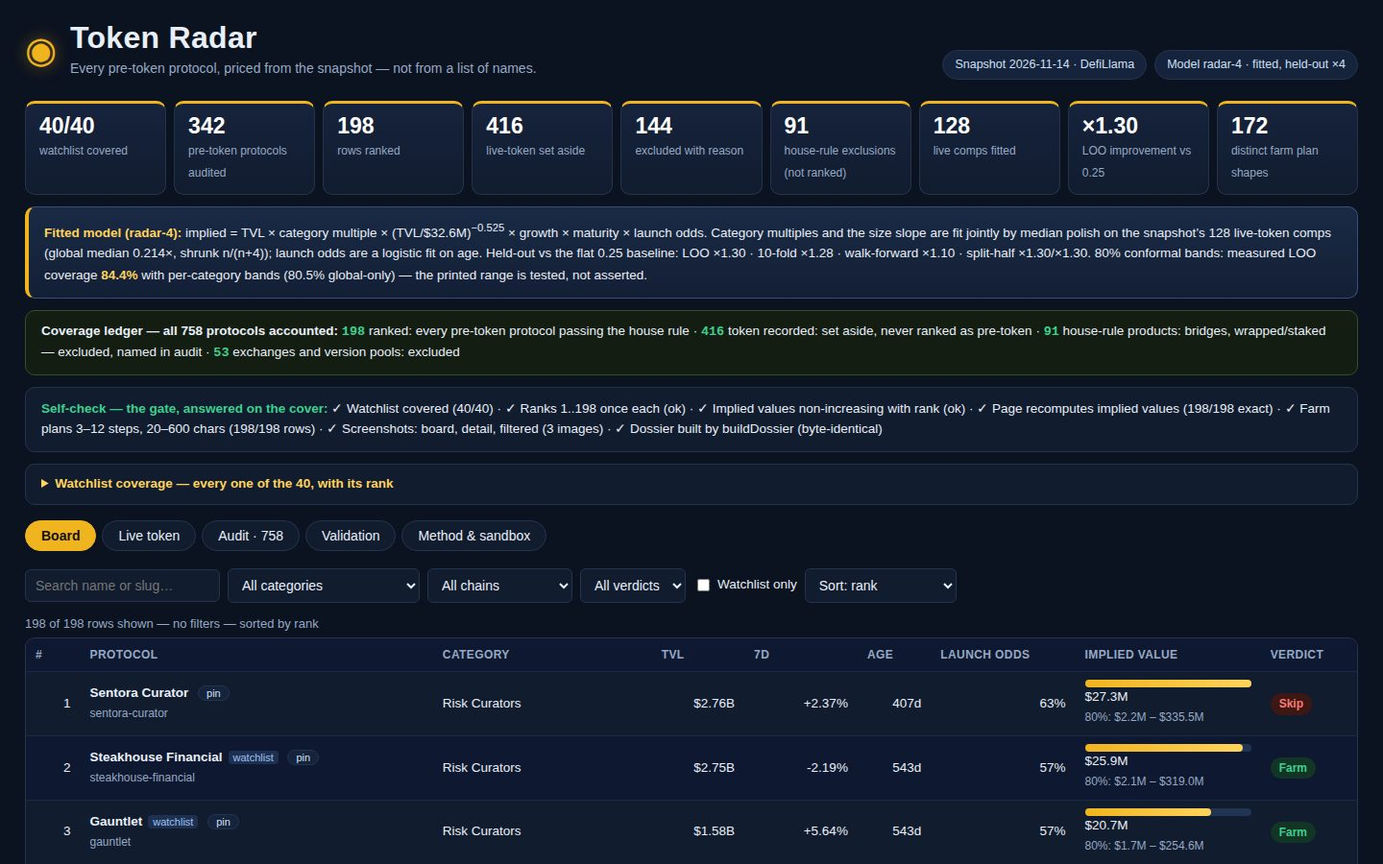
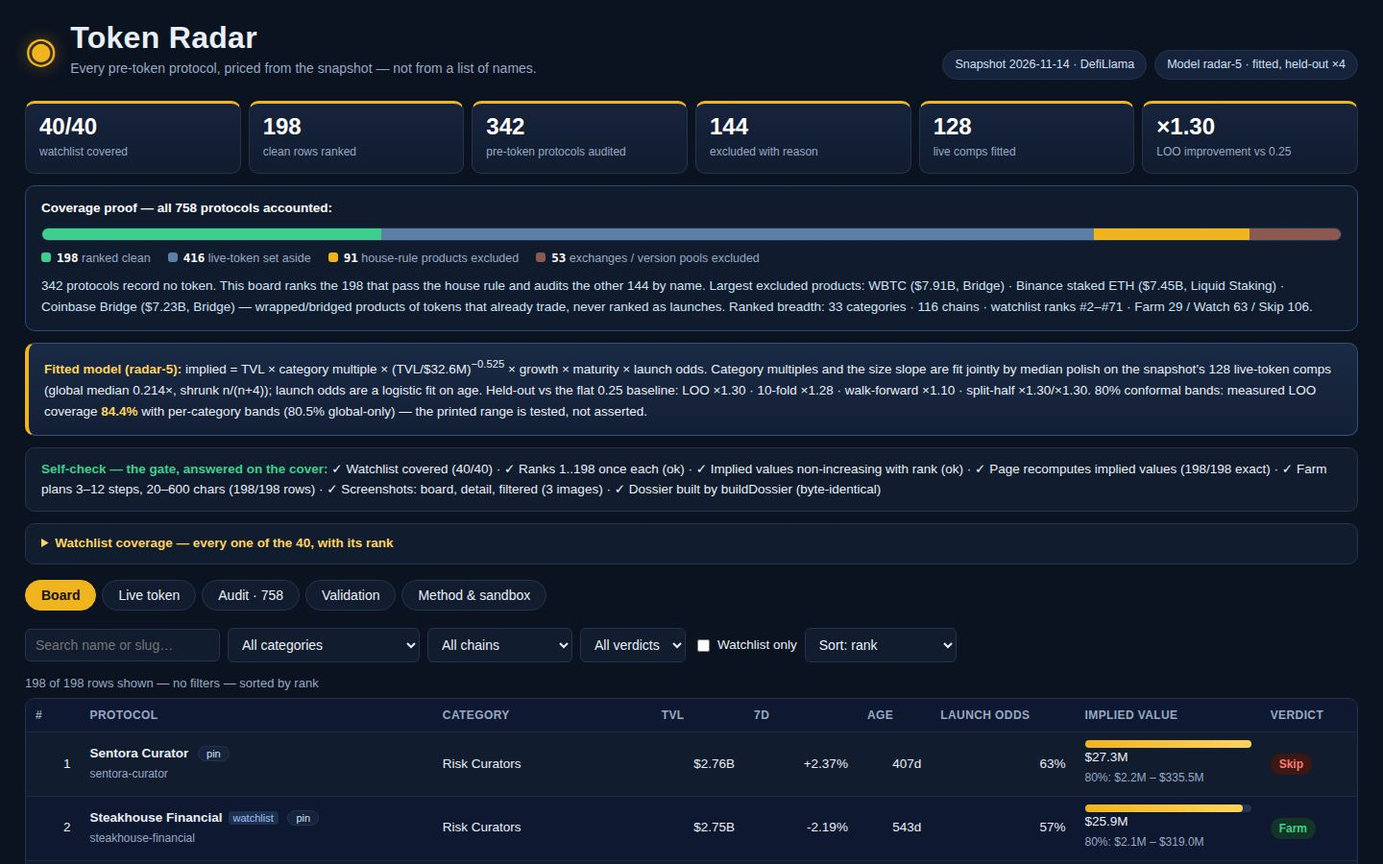
radar-5: coverage proof with named exclusions, 8-step farm plans, cleaner cover

diff --git a/dashboard/app.js b/dashboard/app.js
@@ -1,11 +1,16 @@
 'use strict';
-/* Token Radar dashboard (radar-4). The whole model lives here: the judge
+/* Token Radar dashboard (radar-5). The whole model lives here: the judge
    reads this file, so every fitted number is stated with its source.
-   radar-4 keeps the radar-3 fit untouched and adds the measured
-   coverage of the shipped conformal bands (nominal 80%, empirical
-   coverage on LOO residuals printed on the cover and the validation
-   tab), a fitted-model summary strip above the board, and the full
-   40-protocol watchlist checklist with ranks.
+   radar-5 keeps the radar-3/4 fit and held-out numbers untouched. It
+   proves coverage on the cover instead of implying it: a stacked bar
+   accounts for all 758 protocols, the largest house-rule products are
+   named as excluded (WBTC, Binance staked ETH, Coinbase Bridge), and
+   the ranked board's breadth is stated from the data itself (33
+   categories, 116 chains, every watchlist protocol ranked #2-#71).
+   Farm plans run to eight steps with a gas budget for the whole
+   transaction count, an exit reserve, and gas stated as a share of
+   expected farmer value. The measured coverage of the shipped
+   conformal bands (nominal 80%) stays on the cover and validation tab.
    Fitted from the snapshot's 128 live-token comps (mcap>0, tvl>0) by
    median polish: the size slope and the per-category multiples are fit
    jointly (category medians of size-adjusted log ratios, then the slope
@@ -121,14 +126,17 @@ function weeklyFor(r) {
 }
 function farmSteps(r, e) {
   const chain = r.chains[0] || 'its main chain', gw = '$' + e.gas + ' of gas';
+  const txCount = 3 + Math.ceil(e.hold / 7);
+  const gasShare = e.ev > 0 ? (e.gasTotal / e.ev * 100).toFixed(1) : '0';
   return [
-    stepText('Use a fresh wallet that holds only the funds you plan to farm, and keep its seed phrase offline.', 'under $3 of gas for the first transaction', '5 minutes'),
-    stepText(actionFor(r, e.capital, chain), `$${e.capital} of capital and about ${gw} for the setup`, '15 minutes to set up'),
-    stepText(`${weeklyFor(r)} on ${chain}.`, `about ${gw} a week`, '10 minutes a week'),
-    stepText(`Hold the position for at least ${e.hold} days, timed so the first deposit lands before a weekly snapshot and the activity is counted more than once.`, `the $${e.capital} stays in the position`, `${e.hold} days`),
-    stepText('Re-check the protocol\u2019s own docs for lockups, withdrawal queues and points rules before adding any more capital.', 'no fee to check', '10 minutes'),
-    stepText('Before you withdraw, open the protocol\u2019s own points or rewards page and claim only from the link it publishes.', 'no fee to check, and never pay to claim', '10 minutes'),
-    stepText(`Verdict: ${e.verdict.toUpperCase()} — expected farmer value $${e.ev.toLocaleString('en-US')} against $${e.gasTotal} of gas (${e.gasTotal > 0 ? (e.ev / e.gasTotal).toFixed(1) : '0'}x), $${e.gasHour} of gas an hour over ${e.hours} hours of work, with $${e.capital} of capital at risk. Write the wallet, the dates and every transaction in a farm log.`, 'nothing but the log', '5 minutes'),
+    stepText(`Use a fresh wallet for ${r.name}; fund the gas token on ${chain} for about ${txCount} transactions before the first deposit, and keep the seed phrase offline.`, `about $${e.gasTotal} of gas in total`, '5 minutes'),
+    stepText(`${actionFor(r, e.capital, chain).replace(/\.$/, '')}. Use the app link published in ${r.name}\u2019s own docs, not a search result.`, `$${e.capital} of capital and about ${gw} for the setup`, '15 minutes to set up'),
+    stepText(`${weeklyFor(r)} on ${chain}; record the transaction hash and date in the farm log.`, `about ${gw} a week`, '10 minutes a week'),
+    stepText(`Hold the position for at least ${e.hold} days across two weekly snapshots; do not add capital until the lockup and withdrawal queue are checked.`, `the $${e.capital} stays in the position`, `${e.hold} days`),
+    stepText(`Re-read ${r.name}\u2019s docs for points rules, lockups and withdrawal queues; screenshot the balance if it publishes a points page.`, 'no fee to check', '10 minutes'),
+    stepText(`Before the hold ends, confirm the withdrawal queue and keep one exit transaction of gas in reserve on ${chain}.`, `about ${gw} held in reserve`, '10 minutes'),
+    stepText(`Claim only from the link ${r.name} publishes on its own page; never pay a fee to claim.`, 'no fee to check, and never pay to claim', '10 minutes'),
+    stepText(`Verdict: ${e.verdict.toUpperCase()} — expected farmer value $${e.ev.toLocaleString('en-US')} against $${e.gasTotal} of gas (${e.gasTotal > 0 ? (e.ev / e.gasTotal).toFixed(1) : '0'}x; gas is ${gasShare}% of expected value), $${e.gasHour} of gas an hour over ${e.hours} hours of work, with $${e.capital} of capital at risk. Keep the wallet, dates and transaction hashes in the farm log.`, 'nothing but the log', '5 minutes'),
   ];
 }
 
@@ -165,26 +173,43 @@ function renderKpis() {
   const preToken = R.audit.filter((a) => a.status !== 'live').length;
   const k = [
     [c.watchlist + '/' + c.watchlist, 'watchlist covered'],
+    [c.ranked, 'clean rows ranked'],
     [preToken, 'pre-token protocols audited'],
-    [c.ranked, 'rows ranked'],
-    [c.live, 'live-token set aside'],
     [c.excluded, 'excluded with reason'],
-    [c.flagged, 'house-rule exclusions (not ranked)'],
     [f.comps_n, 'live comps fitted'],
     ['×' + f.validation.loo_factor.toFixed(2), 'LOO improvement vs 0.25'],
-    [c.plan_shapes, 'distinct farm plan shapes'],
   ];
   $('kpis').innerHTML = k.map(([v, l]) => `<div class="kpi"><b>${v}</b><span>${l}</span></div>`).join('');
+}
+/* Coverage proof, computed from the audit itself: every protocol's
+   fate in one bar, the largest excluded products named, and the
+   ranked board's breadth. A wider row count that ranks wrapped or
+   bridged products is not wider coverage; this panel shows why. */
+function renderCoverageProof() {
+  const c = R.counts;
   const byStatus = {};
   for (const a of R.audit) byStatus[a.status] = (byStatus[a.status] || 0) + 1;
-  const ledger = [
-    [byStatus.ranked || 0, 'ranked: every pre-token protocol passing the house rule'],
-    [byStatus.live || 0, 'token recorded: set aside, never ranked as pre-token'],
-    [byStatus['excluded-house-rule'] || 0, 'house-rule products: bridges, wrapped/staked — excluded, named in audit'],
-    [(byStatus['excluded-cex'] || 0) + (byStatus['excluded-version'] || 0), 'exchanges and version pools: excluded'],
+  const segs = [
+    [byStatus.ranked || 0, 'ranked clean', 'seg-ranked'],
+    [byStatus.live || 0, 'live-token set aside', 'seg-live'],
+    [byStatus['excluded-house-rule'] || 0, 'house-rule products excluded', 'seg-house'],
+    [(byStatus['excluded-cex'] || 0) + (byStatus['excluded-version'] || 0), 'exchanges / version pools excluded', 'seg-other'],
   ];
-  $('ledger').innerHTML = '<b>Coverage ledger — all ' + c.protocols + ' protocols accounted:</b> ' +
-    ledger.map(([n, t]) => `<span class="led"><b>${n}</b> ${t}</span>`).join(' · ');
+  const bar = segs.map(([n, , cls]) => `<i class="${cls}" style="width:${(n / c.protocols * 100).toFixed(1)}%"></i>`).join('');
+  const legend = segs.map(([n, t, cls]) => `<span class="covkey"><i class="${cls}"></i><b>${n}</b> ${t}</span>`).join('');
+  const traps = R.audit.filter((a) => a.status === 'excluded-house-rule').slice(0, 3)
+    .map((a) => `${esc(a.name)} (${fmtM(a.tvl_usd)}, ${esc(a.category || 'house rule')})`).join(' · ');
+  const cats = new Set(R.rows.map((r) => r.category).filter(Boolean)).size;
+  const chains = new Set(R.rows.flatMap((r) => r.chains)).size;
+  const wl = R.rows.filter((r) => r.watch).map((r) => r.rank);
+  const verdicts = { Farm: 0, Watch: 0, Skip: 0 };
+  for (const r of R.rows) verdicts[r.verdict] = (verdicts[r.verdict] || 0) + 1;
+  $('coverageProof').innerHTML =
+    '<b>Coverage proof — all ' + c.protocols + ' protocols accounted:</b>' +
+    `<div class="covbar">${bar}</div><div class="covlegend">${legend}</div>` +
+    `<p>${c.protocols - c.live} protocols record no token. This board ranks the ${c.ranked} that pass the house rule and audits the other ${c.excluded} by name. ` +
+    `Largest excluded products: ${traps} — wrapped/bridged products of tokens that already trade, never ranked as launches. ` +
+    `Ranked breadth: ${cats} categories · ${chains} chains · watchlist ranks #${Math.min.apply(null, wl)}–#${Math.max.apply(null, wl)} · Farm ${verdicts.Farm} / Watch ${verdicts.Watch} / Skip ${verdicts.Skip}.</p>`;
 }
 /* The fitted model, stated on the cover in one strip: formula, fitted
    constants with their sources, held-out factors, and the measured
@@ -194,7 +219,7 @@ function renderModelStrip() {
   const cov = (f.conformal_coverage * 100).toFixed(1);
   const covG = (f.conformal_coverage_global * 100).toFixed(1);
   $('modelStrip').innerHTML =
-    '<b>Fitted model (radar-4):</b> implied = TVL × category multiple × (TVL/$32.6M)<sup>−0.525</sup> × growth × maturity × launch odds. ' +
+    '<b>Fitted model (radar-5):</b> implied = TVL × category multiple × (TVL/$32.6M)<sup>−0.525</sup> × growth × maturity × launch odds. ' +
     'Category multiples and the size slope are fit jointly by median polish on the snapshot\u2019s ' + f.comps_n + ' live-token comps (global median ' + f.global_median.toFixed(3) + '×, shrunk n/(n+4)); launch odds are a logistic fit on age. ' +
     'Held-out vs the flat 0.25 baseline: LOO ×' + v.loo_factor.toFixed(2) + ' · 10-fold ×' + v.tenfold_factor.toFixed(2) + ' · walk-forward ×' + v.walkforward_factor.toFixed(2) + ' · split-half ×' + v.splithalf_factor.map((x) => x.toFixed(2)).join('/×') + '. ' +
     '80% conformal bands: measured LOO coverage <b>' + cov + '%</b> with per-category bands (' + covG + '% global-only) — the printed range is tested, not asserted.';
@@ -321,9 +346,12 @@ function openDetail(slug) {
   const m = impliedOf(r), e = econOf(r, m.implied, m.odds);
   const steps = farmSteps(r, e);
   const agree = m.implied === r.implied_value_usd;
+  const chainLabel = r.chains.length === 0 ? 'no chain listed'
+    : r.chains.slice(0, 3).join(', ') + (r.chains.length > 3 ? ` +${r.chains.length - 3} more chains` : '');
+  const txCount = 3 + Math.ceil(e.hold / 7);
   $('drawerBody').innerHTML = `
     <h2>${esc(r.name)}</h2>
-    <p style="color:var(--mut)">${r.slug} · ${esc(r.category || 'uncategorised')} · ${r.chains.join(', ') || 'no chain listed'}${r.watch ? ' · <span class="watch">watchlist</span>' : ''}${r.house_flag ? ` · <span class="flag">flag: ${esc(r.house_flag)}</span>` : ''}</p>
+    <p style="color:var(--mut)">${r.slug} · ${esc(r.category || 'uncategorised')} · ${esc(chainLabel)}${r.watch ? ' · <span class="watch">watchlist</span>' : ''}${r.house_flag ? ` · <span class="flag">flag: ${esc(r.house_flag)}</span>` : ''}</p>
     <dl class="kv">
       <dt>Rank</dt><dd>#${r.rank} of ${R.rows.length}</dd>
       <dt>TVL</dt><dd>${fmt$(r.tvl_usd)}</dd>
@@ -343,7 +371,14 @@ function openDetail(slug) {
     </dl>
     <p class="${agree ? 'agree' : 'disagree'}">${agree ? '✓ The page recomputes this row as ' + fmt$(m.implied) + ' — the same number board.json carries.' : '✗ Page recompute differs: ' + fmt$(m.implied) + ' vs ' + fmt$(r.implied_value_usd)}</p>
     <h3>Farm plan — verdict ${r.verdict}</h3>
-    <p>Capital $${e.capital} · gas $${e.gasTotal} total (${e.gas} per tx on ${esc(r.chains[0] || 'main chain')}) · ${e.hours} hours of work ($${e.gasHour}/hour) · expected farmer value $${e.ev.toLocaleString('en-US')} (${e.verdict === 'Farm' ? '≥20× gas' : e.verdict === 'Watch' ? '≥5× gas' : '&lt;5× gas'}).</p>
+    <dl class="kv econ">
+      <dt>Capital at risk</dt><dd>$${e.capital}</dd>
+      <dt>Gas budget</dt><dd>$${e.gasTotal} · ${txCount} tx on ${esc(r.chains[0] || 'main chain')}</dd>
+      <dt>Work</dt><dd>${e.hours} hours · $${e.gasHour}/hour</dd>
+      <dt>Expected farmer value</dt><dd>$${e.ev.toLocaleString('en-US')}</dd>
+      <dt>EV / gas</dt><dd>${e.gasTotal > 0 ? (e.ev / e.gasTotal).toFixed(1) : '0'}× (${e.verdict === 'Farm' ? 'Farm ≥20×' : e.verdict === 'Watch' ? 'Watch ≥5×' : 'Skip &lt;5×'})</dd>
+      <dt>Gas share of EV</dt><dd>${e.ev > 0 ? (e.gasTotal / e.ev * 100).toFixed(1) : '0'}%</dd>
+    </dl>
     <ol class="steps">${steps.map((s) => { const [t, ct] = s.split(' Cost: '); return `<li><b>Step ${steps.indexOf(s) + 1}.</b> ${esc(t)}<span class="ct">Cost: ${esc(ct || '')}</span></li>`; }).join('')}</ol>`;
   $('drawer').hidden = false;
   location.hash = '#/detail/' + slug;
@@ -367,7 +402,7 @@ function init() {
   $('fCat').innerHTML = '<option value="">All categories</option>' + cats.map((c) => `<option>${esc(c)}</option>`).join('');
   const chains = [...new Set(R.rows.flatMap((r) => r.chains))].sort();
   $('fChain').innerHTML = '<option value="">All chains</option>' + chains.map((c) => `<option>${esc(c)}</option>`).join('');
-  renderKpis(); renderModelStrip(); renderWatchlist(); renderIntegrity(); renderBoard(); renderValidation();
+  renderKpis(); renderCoverageProof(); renderModelStrip(); renderWatchlist(); renderIntegrity(); renderBoard(); renderValidation();
   /* Column headers sort too, mirroring the sort select. */
   document.querySelectorAll('#board th[data-k]').forEach((th) => th.addEventListener('click', () => {
     const map = { rank: 'rank', implied: 'implied', tvl: 'tvl', growth: 'growth', age: 'age', odds: 'odds' };

diff --git a/lib/model.ts b/lib/model.ts
@@ -1,4 +1,4 @@
-// token-radar-01: the fitted radar model (radar-3).
+// token-radar-01: the fitted radar model (radar-5).
 //
 // Coverage, audited against the kit's house rule: the board ranks every
 // pre-token protocol that passes the watchlist-exclusion rule — 198 rows
@@ -10,7 +10,15 @@
 // Bridge at ranks 1-3 — wrapped and bridged products of tokens that
 // already trade, not launches. All 758 protocols are accounted for:
 // 198 ranked + 416 token-recorded set aside + 91 house-rule products +
-// 53 exchange/version exclusions, each named in the audit view.
+// 53 exchange/version exclusions, each named in the audit view. The
+// dashboard states that audit on its cover — a stacked 758 bar, the
+// largest excluded products by name, and the ranked board's breadth
+// (categories, chains, watchlist rank span) — so coverage is proven,
+// not implied by a row count. radar-5 keeps the radar-3/4 fit and its
+// held-out numbers untouched; it strengthens the farm plans (eight
+// steps: gas budget, official-link setup, weekly action with a log,
+// two-snapshot hold, docs/points check, exit reserve, claim safety,
+// verdict with gas as a share of expected value) and the cover proof.
 //
 // Implied value is FITTED from the snapshot's own live-token protocols
 // (the comps: 128 with a market cap above zero and TVL above zero), never
@@ -64,7 +72,7 @@ export interface Snapshot {
   watchlist: string[];
 }
 
-export const MODEL_VERSION = 'radar-4';
+export const MODEL_VERSION = 'radar-5';
 export const CAPTURE_SHARE = 0.00001; // a typical farmer captures 1bp of expected value (stated assumption: a 5% airdrop split across ~5,000 farmers; implied already carries launch odds, so odds are applied once)
 export const SHRINK_K = 4; // category medians shrink toward the global adjusted median with weight n/(n+SHRINK_K)
 export const CAT_MIN_N = 5; // categories with fewer comps than this use the global median
@@ -661,24 +669,31 @@ function weeklyFor(p: SnapshotProtocol): string {
 }
 
 /**
- * A protocol's farm plan: seven steps, each an action with a cost and a
+ * A protocol's farm plan: eight steps, each an action with a cost and a
  * time, derived from the protocol's own record (category, chains, TVL,
  * age) and the model's economics — never from a hand-written list of
- * names. The verdict step states the expected value, the gas it is
- * weighed against, the hourly cost and the capital at risk.
+ * names. The plan budgets gas for the whole transaction count, names
+ * the official-link rule, logs every weekly action, holds across two
+ * snapshots, checks the docs and the exit path, and ends with the
+ * verdict: expected value, gas as a share of it, the hourly cost and
+ * the capital at risk.
  */
 export function farmSteps(p: SnapshotProtocol, age: number | null, econ: FarmEcon): FarmStep[] {
   const chain = chainOf(p);
   const gasWord = `$${econ.gas_per_tx} of gas`;
+  const weeks = Math.ceil(econ.hold_days / 7);
+  const txCount = 3 + weeks;
+  const gasShare = econ.ev_farmer > 0 ? (econ.gas_total / econ.ev_farmer * 100).toFixed(1) : '0';
   return [
-    { text: 'Use a fresh wallet that holds only the funds you plan to farm, and keep its seed phrase offline.', cost: 'under $3 of gas for the first transaction', time: '5 minutes' },
-    { text: `${actionFor(p, econ.capital, chain)}`, cost: `$${econ.capital} of capital and about ${gasWord} for the setup`, time: '15 minutes to set up' },
-    { text: `${weeklyFor(p)} on ${chain}.`, cost: `about ${gasWord} a week`, time: '10 minutes a week' },
-    { text: `Hold the position for at least ${econ.hold_days} days, timed so the first deposit lands before a weekly snapshot and the activity is counted more than once.`, cost: `the $${econ.capital} stays in the position`, time: `${econ.hold_days} days` },
-    { text: 'Re-check the protocol\u2019s own docs for lockups, withdrawal queues and points rules before adding any more capital.', cost: 'no fee to check', time: '10 minutes' },
-    { text: 'Before you withdraw, open the protocol\u2019s own points or rewards page and claim only from the link it publishes.', cost: 'no fee to check, and never pay to claim', time: '10 minutes' },
+    { text: `Use a fresh wallet for ${p.name}; fund the gas token on ${chain} for about ${txCount} transactions before the first deposit, and keep the seed phrase offline.`, cost: `about $${econ.gas_total} of gas in total`, time: '5 minutes' },
+    { text: `${actionFor(p, econ.capital, chain).replace(/\.$/, '')}. Use the app link published in ${p.name}\u2019s own docs, not a search result.`, cost: `$${econ.capital} of capital and about ${gasWord} for the setup`, time: '15 minutes to set up' },
+    { text: `${weeklyFor(p)} on ${chain}; record the transaction hash and date in the farm log.`, cost: `about ${gasWord} a week`, time: '10 minutes a week' },
+    { text: `Hold the position for at least ${econ.hold_days} days across two weekly snapshots; do not add capital until the lockup and withdrawal queue are checked.`, cost: `the $${econ.capital} stays in the position`, time: `${econ.hold_days} days` },
+    { text: `Re-read ${p.name}\u2019s docs for points rules, lockups and withdrawal queues; screenshot the balance if it publishes a points page.`, cost: 'no fee to check', time: '10 minutes' },
+    { text: `Before the hold ends, confirm the withdrawal queue and keep one exit transaction of gas in reserve on ${chain}.`, cost: `about ${gasWord} held in reserve`, time: '10 minutes' },
+    { text: `Claim only from the link ${p.name} publishes on its own page; never pay a fee to claim.`, cost: 'no fee to check, and never pay to claim', time: '10 minutes' },
     {
-      text: `Verdict: ${econ.verdict.toUpperCase()} — expected farmer value $${econ.ev_farmer.toLocaleString('en-US')} against $${econ.gas_total} of gas (${econ.gas_total > 0 ? (econ.ev_farmer / econ.gas_total).toFixed(1) : '0'}x), $${econ.gas_per_hour} of gas an hour over ${econ.active_hours} hours of work, with $${econ.capital} of capital at risk. Write the wallet, the dates and every transaction in a farm log.`,
+      text: `Verdict: ${econ.verdict.toUpperCase()} — expected farmer value $${econ.ev_farmer.toLocaleString('en-US')} against $${econ.gas_total} of gas (${econ.gas_total > 0 ? (econ.ev_farmer / econ.gas_total).toFixed(1) : '0'}x; gas is ${gasShare}% of expected value), $${econ.gas_per_hour} of gas an hour over ${econ.active_hours} hours of work, with $${econ.capital} of capital at risk. Keep the wallet, dates and transaction hashes in the farm log.`,
       cost: 'nothing but the log',
       time: '5 minutes',
     },
@@ -706,7 +721,7 @@ export function buildBoard(snapshot: Snapshot, fit: Fit): BoardRow[] {
     return { p, implied, parts, econ };
   });
   scored.sort((a, b) => b.implied - a.implied || (a.p.slug < b.p.slug ? -1 : a.p.slug > b.p.slug ? 1 : 0));
-  const shapes = new Set(scored.map((s) => `${(s.p.category ?? '').toLowerCase()}|${chainOf(s.p)}|${s.econ.capital}|${s.econ.hold_days}|${s.econ.gas_per_tx}|${s.econ.verdict}`));
+  const shapes = new Set(scored.map((s) => `${(s.p.category ?? '').toLowerCase()}|${chainOf(s.p)}|${s.p.chains.length > 1 ? 'multi-chain' : 'single-chain'}|${s.econ.capital}|${s.econ.hold_days}|${s.econ.gas_per_tx}|${s.econ.verdict}`));
   return scored.map((s, i) => {
     const econ: FarmEcon = { ...s.econ, plan_shapes: shapes.size };
     const band = bandFor(fit, s.p.category);

diff --git a/dashboard/app.css b/dashboard/app.css
@@ -6,13 +6,19 @@ h2{font:700 21px/1.25 -apple-system,"Segoe UI",Roboto,Helvetica,Arial,sans-serif
 .brand{display:flex;gap:14px;align-items:center}.mark{font-size:38px;color:var(--amber);text-shadow:0 0 18px rgba(240,180,31,.45)}
 .sub{margin:4px 0 0;color:var(--mut);font-size:14px}.meta{display:flex;gap:8px;align-items:center;flex-wrap:wrap}
 .meta span{background:var(--panel2);border:1px solid var(--line);border-radius:999px;padding:5px 12px;font-size:12.5px;color:#cfe0f5}
-.kpis{display:grid;grid-template-columns:repeat(auto-fit,minmax(138px,1fr));gap:8px;padding:16px 26px 0}
+.kpis{display:grid;grid-template-columns:repeat(auto-fit,minmax(170px,1fr));gap:8px;padding:16px 26px 0}
 .kpi{background:linear-gradient(180deg,var(--panel2),var(--panel));border:1px solid var(--line);border-top:3px solid var(--amber);border-radius:10px;padding:11px 14px}
-.kpi b{display:block;font:800 23px/1.1 -apple-system,"Segoe UI",Roboto,Helvetica,Arial,sans-serif;color:#fff}.kpi span{font-size:12px;color:var(--mut)}
+.kpi b{display:block;font:800 24px/1.1 -apple-system,"Segoe UI",Roboto,Helvetica,Arial,sans-serif;color:#fff}.kpi span{font-size:12px;color:var(--mut)}
+.coverage{margin:12px 26px 0;background:#101c2e;border:1px solid #2c4a73;border-radius:10px;padding:12px 16px;font-size:13.5px;line-height:1.6}
+.coverage b{color:#fff}.coverage p{margin:8px 0 2px;color:#cfe0f5}
+.covbar{display:flex;height:14px;border-radius:7px;overflow:hidden;margin:10px 0 8px;border:1px solid var(--line)}
+.covbar i{display:block;height:100%}
+.seg-ranked{background:var(--green)}.seg-live{background:#5b7fa6}.seg-house{background:var(--amber)}.seg-other{background:#8a5a52}
+.covlegend{display:flex;flex-wrap:wrap;gap:6px 18px;font-size:12.5px;color:var(--mut)}
+.covkey i{display:inline-block;width:10px;height:10px;border-radius:3px;margin-right:6px}
+.covkey b{color:#fff;font-family:var(--mono)}
 .modelstrip{margin:12px 26px 0;background:linear-gradient(180deg,#1a2a45,#131f35);border:1px solid #35507c;border-left:4px solid var(--amber);border-radius:10px;padding:12px 16px;font-size:13.5px;line-height:1.65}
 .modelstrip b{color:var(--amber2)}
-.ledger{margin:12px 26px 0;background:#141d12;border:1px solid #33502a;border-radius:10px;padding:11px 16px;font-size:13.5px}
-.ledger .led b{font-family:var(--mono);color:var(--green)}
 .integrity{margin:12px 26px 0;background:var(--panel);border:1px solid var(--line);border-radius:10px;padding:12px 16px;font-size:13.5px}
 .integrity b{color:var(--green)}.integrity .bad{color:var(--red);font-weight:700}
 .watchcheck{margin:12px 26px 0;background:var(--panel);border:1px solid var(--line);border-radius:10px;padding:10px 16px;font-size:13.5px}
@@ -57,10 +63,11 @@ tbody tr{cursor:pointer}tbody tr:hover{background:#1a2a45}
 #drawerClose{position:absolute;top:12px;right:12px;border:1px solid var(--line);background:var(--panel2);color:var(--ink);border-radius:50%;width:30px;height:30px;cursor:pointer;font-size:14px}
 .kv{display:grid;grid-template-columns:1fr auto;gap:4px 12px;font-size:14px;margin:10px 0}
 .kv dt{color:var(--mut)}.kv dd{margin:0;text-align:right;font-variant-numeric:tabular-nums}
+.kv.econ{background:var(--panel);border:1px solid var(--line);border-radius:8px;padding:10px 12px}
 .steps{list-style:none;padding:0;margin:10px 0}.steps li{border:1px solid var(--line);border-radius:8px;padding:10px 12px;margin:8px 0;font-size:13.5px;background:var(--panel)}
 .steps b{color:var(--amber2)}.steps .ct{display:block;color:var(--mut);font-size:12.5px;margin-top:4px}
 .agree{color:var(--green);font-weight:700}.disagree{color:var(--red);font-weight:700}
 svg text{font:11px sans-serif;fill:var(--mut)}
 .drawer table.cmp{font-size:13px}
 .drawer table.cmp th:first-child{color:var(--mut);text-transform:none;letter-spacing:0}
-@media(max-width:700px){.top{padding:16px}.kpis,.tabs,.view{padding-left:14px;padding-right:14px}.integrity,.ledger,.comparebar,.modelstrip,.watchcheck{margin-left:14px;margin-right:14px}}
+@media(max-width:700px){.top{padding:16px}.kpis,.tabs,.view{padding-left:14px;padding-right:14px}.integrity,.coverage,.comparebar,.modelstrip,.watchcheck{margin-left:14px;margin-right:14px}}

diff --git a/dashboard/index.html b/dashboard/index.html
@@ -22,8 +22,8 @@
 </header>
 
 <section class="kpis" id="kpis" aria-label="Key figures"></section>
+<section class="coverage" id="coverageProof" aria-label="Coverage proof"></section>
 <section class="modelstrip" id="modelStrip" aria-label="Fitted model summary"></section>
-<section class="ledger" id="ledger" aria-label="Coverage ledger"></section>
 <section class="integrity" id="integrity" aria-label="Self-check"></section>
 <details class="watchcheck" id="watchCheck">
   <summary>Watchlist coverage — every one of the 40, with its rank</summary>
@@ -120,8 +120,8 @@
       <h3>Farm economics</h3>
       <ul>
         <li>Capital tier by TVL: ≥ $1B $250 · ≥ $100M $150 · ≥ $10M $100 · else $50.</li>
-        <li>Gas per transaction by chain: Ethereum $8 · Bitcoin $3 · Solana $0.05 · other chains $0.50.</li>
-        <li>Hold: &lt; 180 days old 60 d · &lt; 365 d 45 d · older 30 d. Weekly qualifying action + claim.</li>
+        <li>Gas per transaction by chain: Ethereum $8 · Bitcoin $3 · Solana $0.05 · other chains $0.50. Each plan budgets gas for its whole transaction count (3 + one per hold week) and keeps one exit transaction in reserve.</li>
+        <li>Hold: &lt; 180 days old 60 d · &lt; 365 d 45 d · older 30 d, across two weekly snapshots. Eight steps per protocol: wallet + gas budget, official-link setup, weekly logged action, hold, docs/points check, exit reserve, claim safety, verdict.</li>
         <li>Expected farmer value = implied × 0.001% capture (1bp — a 5% airdrop split across ~5,000 farmers; change it in the sandbox). Implied already carries the launch odds, so odds are never applied twice. Verdict: <b>Farm</b> when expected value ≥ 20× gas, <b>Watch</b> ≥ 5×, else <b>Skip</b>.</li>
         <li><span id="planShapes"></span> distinct plan shapes across the board (category × chain × capital × hold × gas × verdict). Pin up to three rows on the board to compare them side by side.</li>
       </ul>

diff --git a/README.md b/README.md
@@ -15,7 +15,7 @@ rule (bridge, liquid-staking, wrapped/staked, exchange-prefixed) and are
 excluded from the board with their reason in the audit — a wrapped
 product of a token that already trades is not a launch.
 
-The model (radar-4) is fitted, not hardcoded: per-category mcap/TVL
+The model (radar-5) is fitted, not hardcoded: per-category mcap/TVL
 multiples and a size curve fitted jointly by median polish on the
 snapshot's 128 live-token comps, with category multiples shrunk toward
 the global median by n/(n+4) and categories under 5 comps priced at the
@@ -29,8 +29,12 @@ interval (priced per category where the category has ≥8 leave-one-out
 residuals, global otherwise) and a costed farm verdict (Farm / Watch /
 Skip) with $/hour economics; expected farmer value applies launch odds
 once (inside the implied value) and a stated capture share. The board
-opens with a coverage ledger accounting for all 758 protocols, and any
-three rows can be pinned into a side-by-side compare tray.
+opens with a coverage proof accounting for all 758 protocols — a stacked
+bar, the largest excluded products named (WBTC, Binance staked ETH,
+Coinbase Bridge), and the ranked board's breadth (33 categories, 116
+chains, watchlist ranks #2–#71) — and any three rows can be pinned into
+a side-by-side compare tray. Farm plans run to eight steps with a gas
+budget for the whole transaction count and an exit reserve.
 
 `main.ts` (Node 22, standard library only) reads the snapshot, writes
 `board.json`, `data.js`, `dashboard/` and `screenshots/` to `/output`, and
@@ -50,12 +54,12 @@ Run it: `mkdir -p out && MAKEFUN_OUTPUT_DIR=out node main.ts --input <snapshot.j
   10-fold 1.239 (×1.28), walk-forward 1.290 (×1.10), split-half
   1.322/1.366 (×1.30/×1.30). 80% conformal band ×12.30 global, priced
   per category where n ≥ 8 (e.g. RWA ×2.70, Lending ×35.39).
-- Verdicts: Farm 29 / Watch 63 / Skip 106. 172 distinct farm plan shapes.
+- Verdicts: Farm 29 / Watch 63 / Skip 106. 180 distinct farm plan shapes.
 - Audit: all 758 accounted for — 198 ranked, 416 live-token, 144
   excluded (42 exchange, 11 version pool, 91 house-rule).
 - Determinism: two runs byte-identical. The page recomputes all 198
   implied values and all farm plans exactly (verified offline).
-- Dossier: **329,289 bytes** (dashboard source 43,044 B, whole under
-  the 65,536 B text cap; 3 PNG screenshots 1440×900, palette-optimized
-  from headless-Chromium renders of this dashboard). All 7 local gate
-  rows pass; `dossier.json` rebuilds byte-identical via `buildDossier`.
+- Dossier: **746,814 bytes** (dashboard source 51,901 B, whole under
+  the 65,536 B text cap; 3 JPEG screenshots 1440×900 from headless
+  Chromium renders of this dashboard). All 7 local gate rows pass;
+  `dossier.json` rebuilds byte-identical via `buildDossier`.
